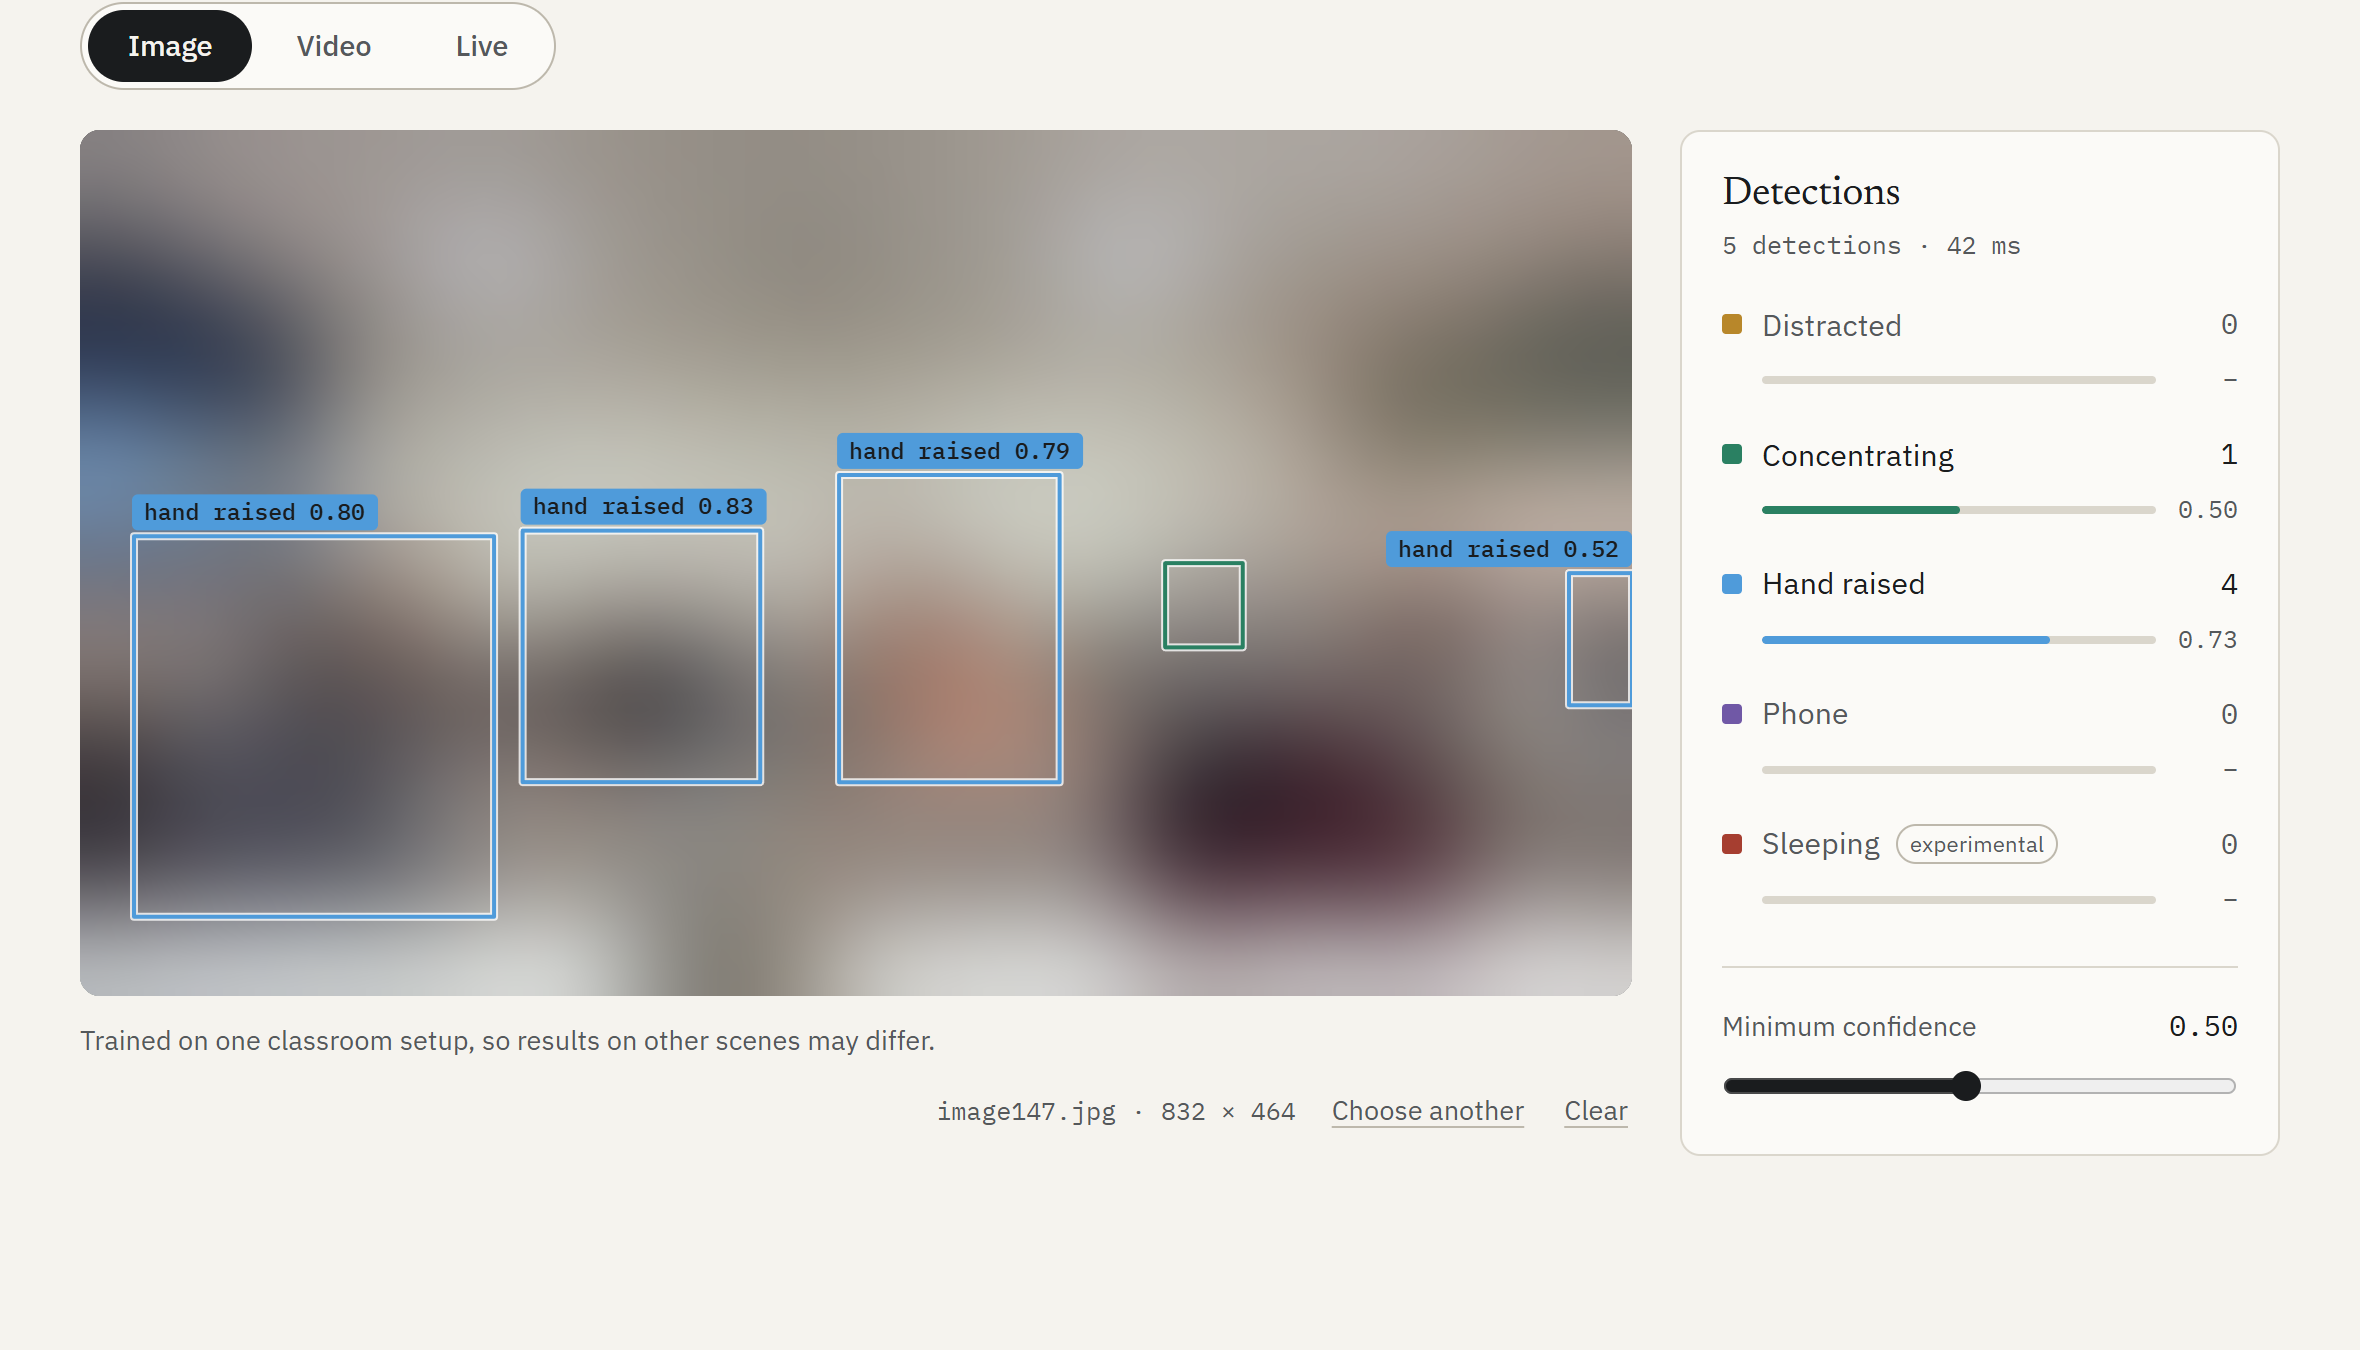
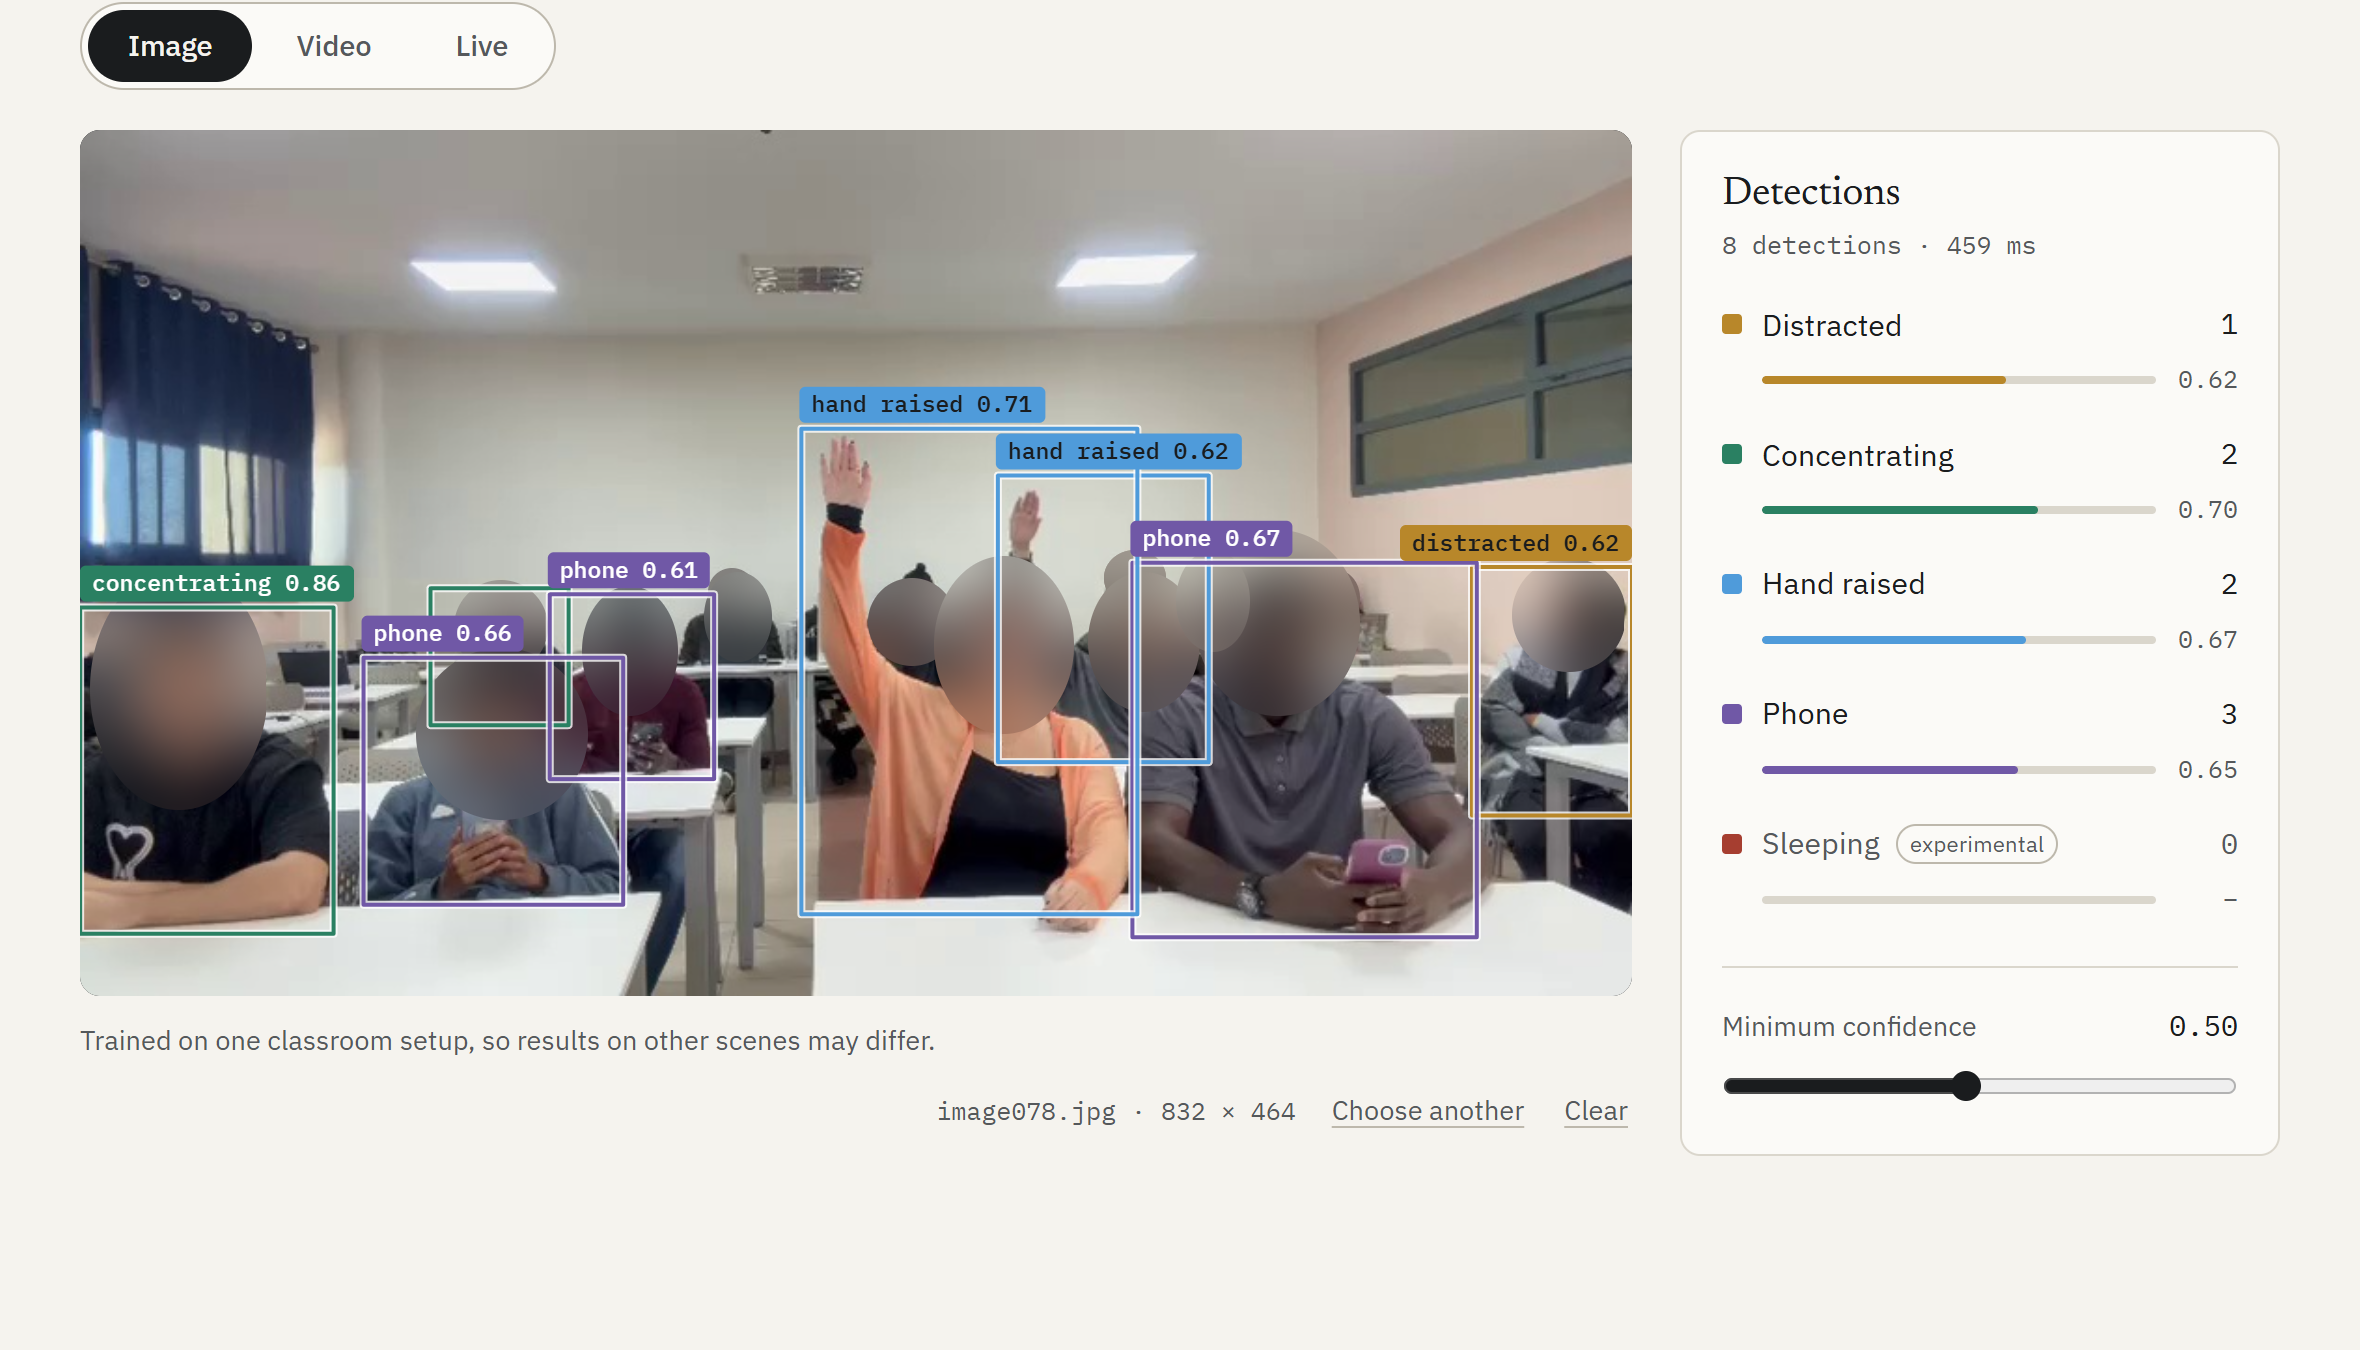
Refine screenshot blur to head-only, keeping hands and context visible

diff --git a/README.md b/README.md
@@ -6,7 +6,7 @@ The project covers the whole pipeline: extracting and labelling frames, a split 
 
 ## Screenshots
 
-The picture area in each screenshot is blurred to protect the people in the footage. The detection boxes, labels and interface are real.
+Faces in each screenshot are blurred to protect the people in the footage. The detection boxes, labels and interface are real.
 
 ![Image mode: detections with confidence labels and a per-class summary](docs/screenshots/image-detection.png)
 
@@ -18,7 +18,7 @@ The picture area in each screenshot is blurred to protect the people in the foot
 
 ![Live mode: boxes drawn over a camera view with a latency and frame-rate chip](docs/screenshots/live-camera.png)
 
-**Live mode.** Frames from the camera stream to the server over a WebSocket, and the detections come back and are drawn over the picture. Here a recorded classroom clip stands in for the webcam. The chip shows the round-trip latency and frame rate, about 45 ms and 28 fps on the development laptop (RTX 4060).
+**Live mode.** Frames from the camera stream to the server over a WebSocket, and the detections come back and are drawn over the picture. Here a recorded classroom frame stands in for the webcam. The chip shows the round-trip latency and frame rate, about 47 ms and 29 fps on the development laptop (RTX 4060).
 
 ![Model section: class definitions, headline test score and a per-class table](docs/screenshots/model-info.png)
 
@@ -57,7 +57,7 @@ The model is trained on five videos of a single classroom, so the evaluation is 
 ```
 app/          web app: FastAPI server, static frontend, tests
 data/         dataset/ (labels, classes.txt, data.yaml; no images), raw_frames/ (frame-to-video mapping only)
-docs/         LIMITATIONS.md, screenshots/ (blurred), archive/ (the annotation guide)
+docs/         LIMITATIONS.md, screenshots/ (faces blurred), archive/ (the annotation guide)
 models/       best.pt (Git LFS)
 notebooks/    the original Colab notebook, superseded by scripts/
 results/      metrics_summary.json from the latest training run
